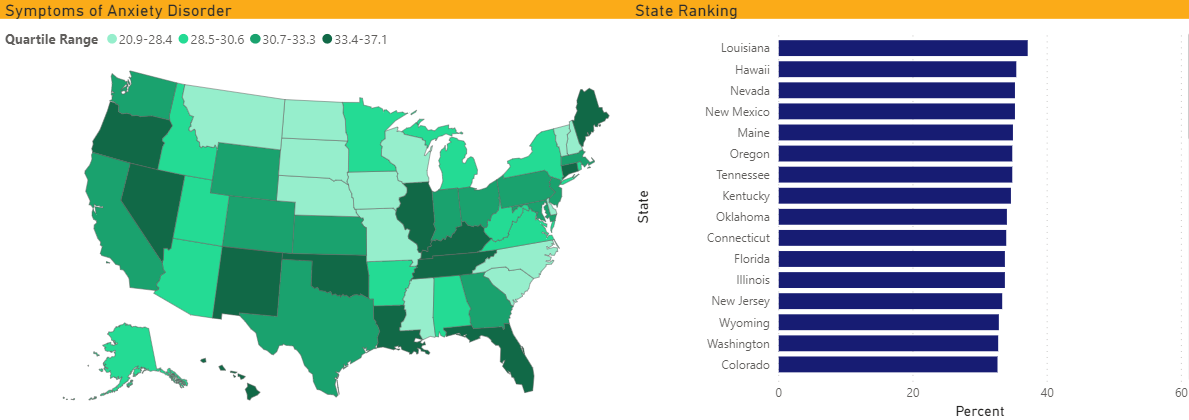
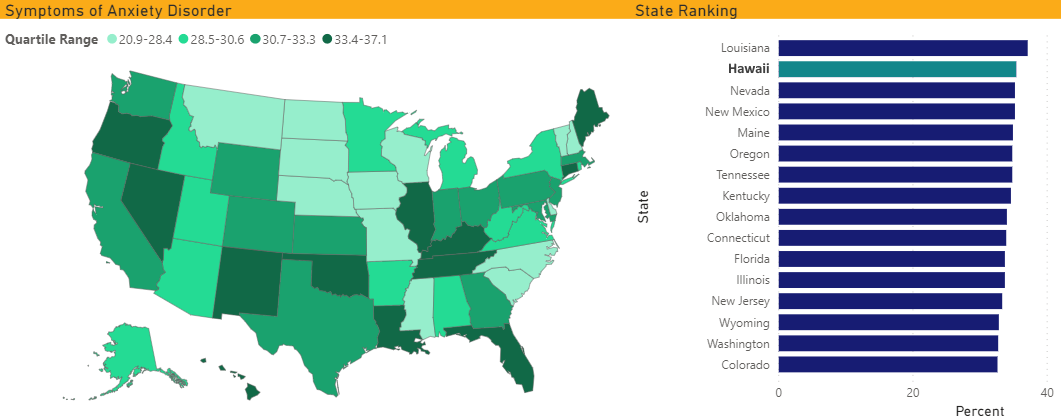
new data images (jank)

diff --git a/data.html b/data.html
@@ -59,15 +59,19 @@
 
     <div class="row">
       <div class="col-md-12 mb-5">
-		<img class="img-responsive" width="100%" src="assets/img_data1.png">
+		<img class="img-responsive" width="100%" src="assets/img_data1_combined.png">
 		<br>
+		<br>
+        <h4>According to CDC Pulse statistics, young adults (ages 18-29) have suffered the most from symptoms of anxiety and depression during the Covid-19 pandemic. <a href="https://www.cdc.gov/nchs/covid19/pulse/mental-health.htm">(source)</a></h4>
 		<br>
 		<img class="img-responsive" width="100%" src="assets/img_data2.png">
 		<br>
 		<br>
-        <p>Lorem ipsum dolor sit amet, consectetur adipisicing elit. A deserunt neque tempore recusandae animi soluta quasi? Asperiores rem dolore eaque vel, porro, soluta unde debitis aliquam laboriosam. Repellat explicabo, maiores!</p>
-		<h1><a name="article">Header</a></h1>
+        <h4>Hawaii is ranked second worst in the nation in terms of symptoms of anxiety and depression during Covid-19. <a href="https://www.cdc.gov/nchs/covid19/pulse/mental-health.htm">(source)</a></h4>
+		<br>
+		<h1><a name="article">More info</a></h1>
         <p>Lorem ipsum dolor sit amet, consectetur adipisicing elit. Omnis optio neque consectetur consequatur magni in nisi, natus beatae quidem quam odit commodi ducimus totam eum, alias, adipisci nesciunt voluptate. Voluptatum.</p>
+		<br>
         <a class="btn btn-primary btn-lg" href="index.html">Back to home &raquo;</a>
       </div>
     </div>
